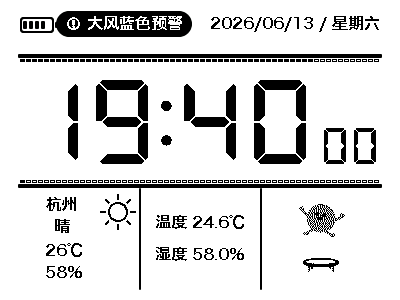
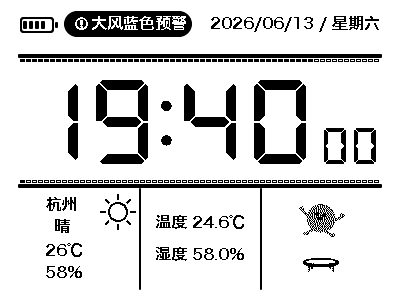
v0.0.59 adjust alert spacing

Changed region(s): [[0.12, 0.03, 0.48, 0.12]]

diff --git a/RLCD_CLOCK/main/main.cpp b/RLCD_CLOCK/main/main.cpp
@@ -43,7 +43,7 @@ LV_FONT_DECLARE(qweather_icons_36);
 LV_FONT_DECLARE(zh_font_16);
 
 static const char *TAG = "WeatherClock";
-static const char *APP_VERSION = "v0.0.58";
+static const char *APP_VERSION = "v0.0.59";
 
 static constexpr int kDisplayWidth = 400;
 static constexpr int kDisplayHeight = 300;
@@ -1052,8 +1052,8 @@ static void build_clock_ui()
 
     g_alert_pill = lv_obj_create(screen);
     lv_obj_clear_flag(g_alert_pill, LV_OBJ_FLAG_SCROLLABLE);
-    lv_obj_set_pos(g_alert_pill, 56, 11);
-    lv_obj_set_size(g_alert_pill, 136, 26);
+    lv_obj_set_pos(g_alert_pill, 64, 11);
+    lv_obj_set_size(g_alert_pill, 128, 26);
     lv_obj_set_style_bg_color(g_alert_pill, lv_color_black(), LV_PART_MAIN);
     lv_obj_set_style_bg_opa(g_alert_pill, LV_OPA_COVER, LV_PART_MAIN);
     lv_obj_set_style_border_width(g_alert_pill, 0, LV_PART_MAIN);
@@ -1089,7 +1089,7 @@ static void build_clock_ui()
                        lv_color_white(),
                        lv_color_black());
     }
-    g_alert_label = make_label_with_font(g_alert_pill, 30, 4, 98, 18, "", &zh_font_16);
+    g_alert_label = make_label_with_font(g_alert_pill, 30, 4, 90, 18, "", &zh_font_16);
     lv_obj_set_style_text_color(g_alert_label, lv_color_white(), LV_PART_MAIN);
     lv_obj_set_style_text_align(g_alert_label, LV_TEXT_ALIGN_CENTER, LV_PART_MAIN);
     lv_label_set_long_mode(g_alert_label, LV_LABEL_LONG_CLIP);

diff --git a/RLCD_CLOCK/simulator/main.cpp b/RLCD_CLOCK/simulator/main.cpp
@@ -18,7 +18,7 @@ LV_FONT_DECLARE(zh_font_16);
 static constexpr int kDisplayWidth = 400;
 static constexpr int kDisplayHeight = 300;
 static constexpr int kWindowScale = 2;
-static const char *APP_VERSION = "v0.0.58";
+static const char *APP_VERSION = "v0.0.59";
 static constexpr int kTimeCanvasW = 292;
 static constexpr int kTimeCanvasH = 92;
 static constexpr int kSecondCanvasW = 60;
@@ -483,8 +483,8 @@ static void build_clock_ui()
 
     g_alert_pill = lv_obj_create(screen);
     lv_obj_clear_flag(g_alert_pill, LV_OBJ_FLAG_SCROLLABLE);
-    lv_obj_set_pos(g_alert_pill, 56, 11);
-    lv_obj_set_size(g_alert_pill, 136, 26);
+    lv_obj_set_pos(g_alert_pill, 64, 11);
+    lv_obj_set_size(g_alert_pill, 128, 26);
     lv_obj_set_style_bg_color(g_alert_pill, lv_color_black(), LV_PART_MAIN);
     lv_obj_set_style_bg_opa(g_alert_pill, LV_OPA_COVER, LV_PART_MAIN);
     lv_obj_set_style_border_width(g_alert_pill, 0, LV_PART_MAIN);
@@ -510,7 +510,7 @@ static void build_clock_ui()
                    warning_icon_bits,
                    lv_color_white(),
                    lv_color_black());
-    g_alert_label = make_label_with_font(g_alert_pill, 30, 4, 98, 18, "大风蓝色预警", &zh_font_16);
+    g_alert_label = make_label_with_font(g_alert_pill, 30, 4, 90, 18, "大风蓝色预警", &zh_font_16);
     lv_obj_set_style_text_color(g_alert_label, lv_color_white(), LV_PART_MAIN);
     lv_obj_set_style_text_align(g_alert_label, LV_TEXT_ALIGN_CENTER, LV_PART_MAIN);
     lv_label_set_long_mode(g_alert_label, LV_LABEL_LONG_CLIP);

diff --git a/README.md b/README.md
@@ -128,6 +128,7 @@ Release 附件包括：
 
 ## 版本记录
 
+- `v0.0.59`：微调顶部天气预警条位置，将预警提示整体右移并略微缩短，避免遮挡左上角电池图标，同时保持与右上角日期之间的留白。
 - `v0.0.58`：优化 RLCD 刷新路径，LVGL flush 不再默认整屏发送，而是合并脏区域的横向范围并刷新对应条带，页面切换和大面积变化仍走整屏刷新；新增低电量极简模式，电量低于 5% 时停止天气/预警、本地温湿度、GIF、秒显示和进度条，只保留分钟级基础信息和低电量图标；新增 QWeather 天气预警查询与顶部闪烁预警条；将 `电量不足.svg` 和 `警告.svg` 转为固件内置 1-bit 位图，并为 SDL 预览增加预警和低电量页面截图。
 - `v0.0.57`：继续推进低风险功耗优化；BOOT/KEY 按键轮询改为自适应节奏，普通工作页无按键时降低唤醒频率，按下、设置页、信息页和配网状态保持更快响应；电池 ADC 改为采样时初始化、采样后释放，避免 5 分钟采样间隔外长期占用 ADC；FreeRTOS tick 从 1000Hz 降到 250Hz，减少空闲调度开销；保持 1-bit 显示链路、GPIO 唤醒和 Light Sleep 大改暂不引入。
 - `v0.0.56`：继续做低风险功耗优化；修复 SHTC3 温湿度传感器成功读取后未执行 sleep 的问题；housekeeping 任务改为睡到下一次传感器或电池采样，减少空闲唤醒；主工作页仅在秒、状态、电池、天气或页面切换变化时强制刷新；LVGL port 空闲最小 delay 从 100ms 提高到 250ms；正式测试配置将默认日志级别降为 WARN。